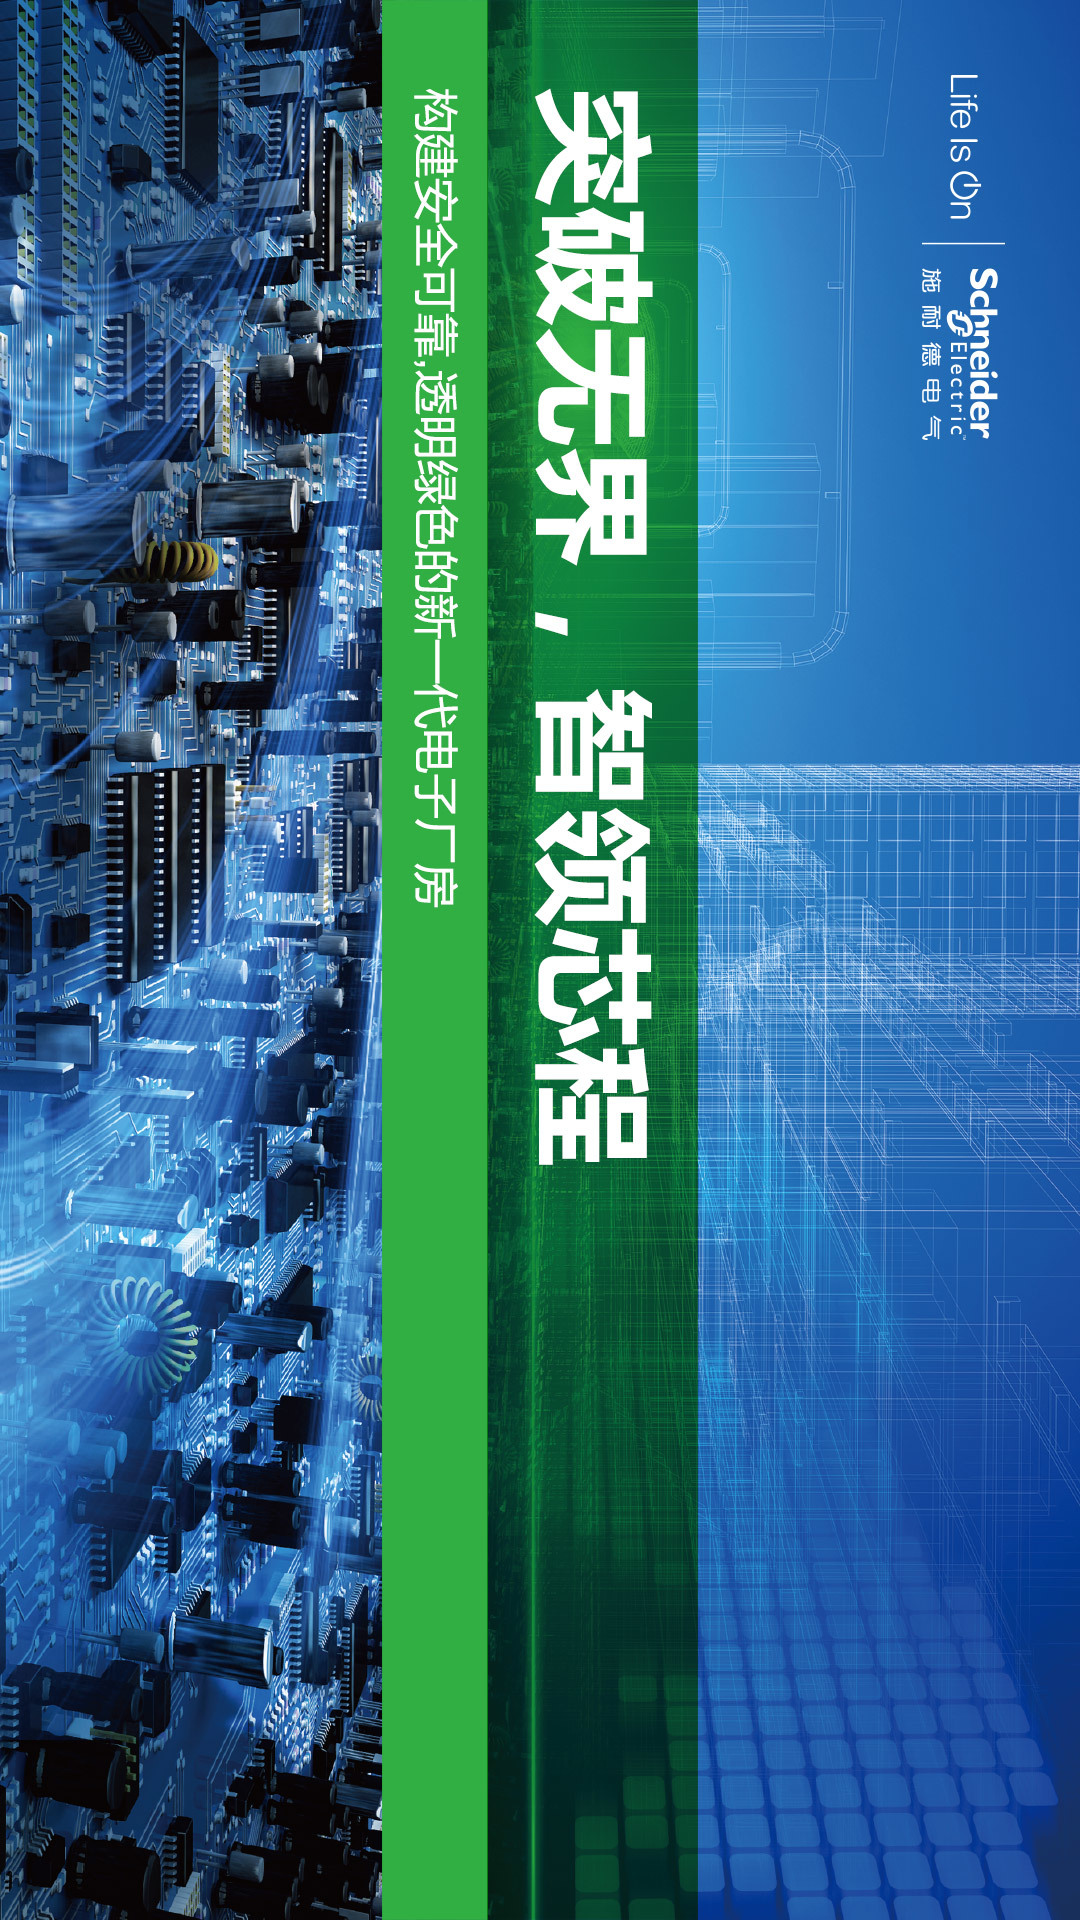
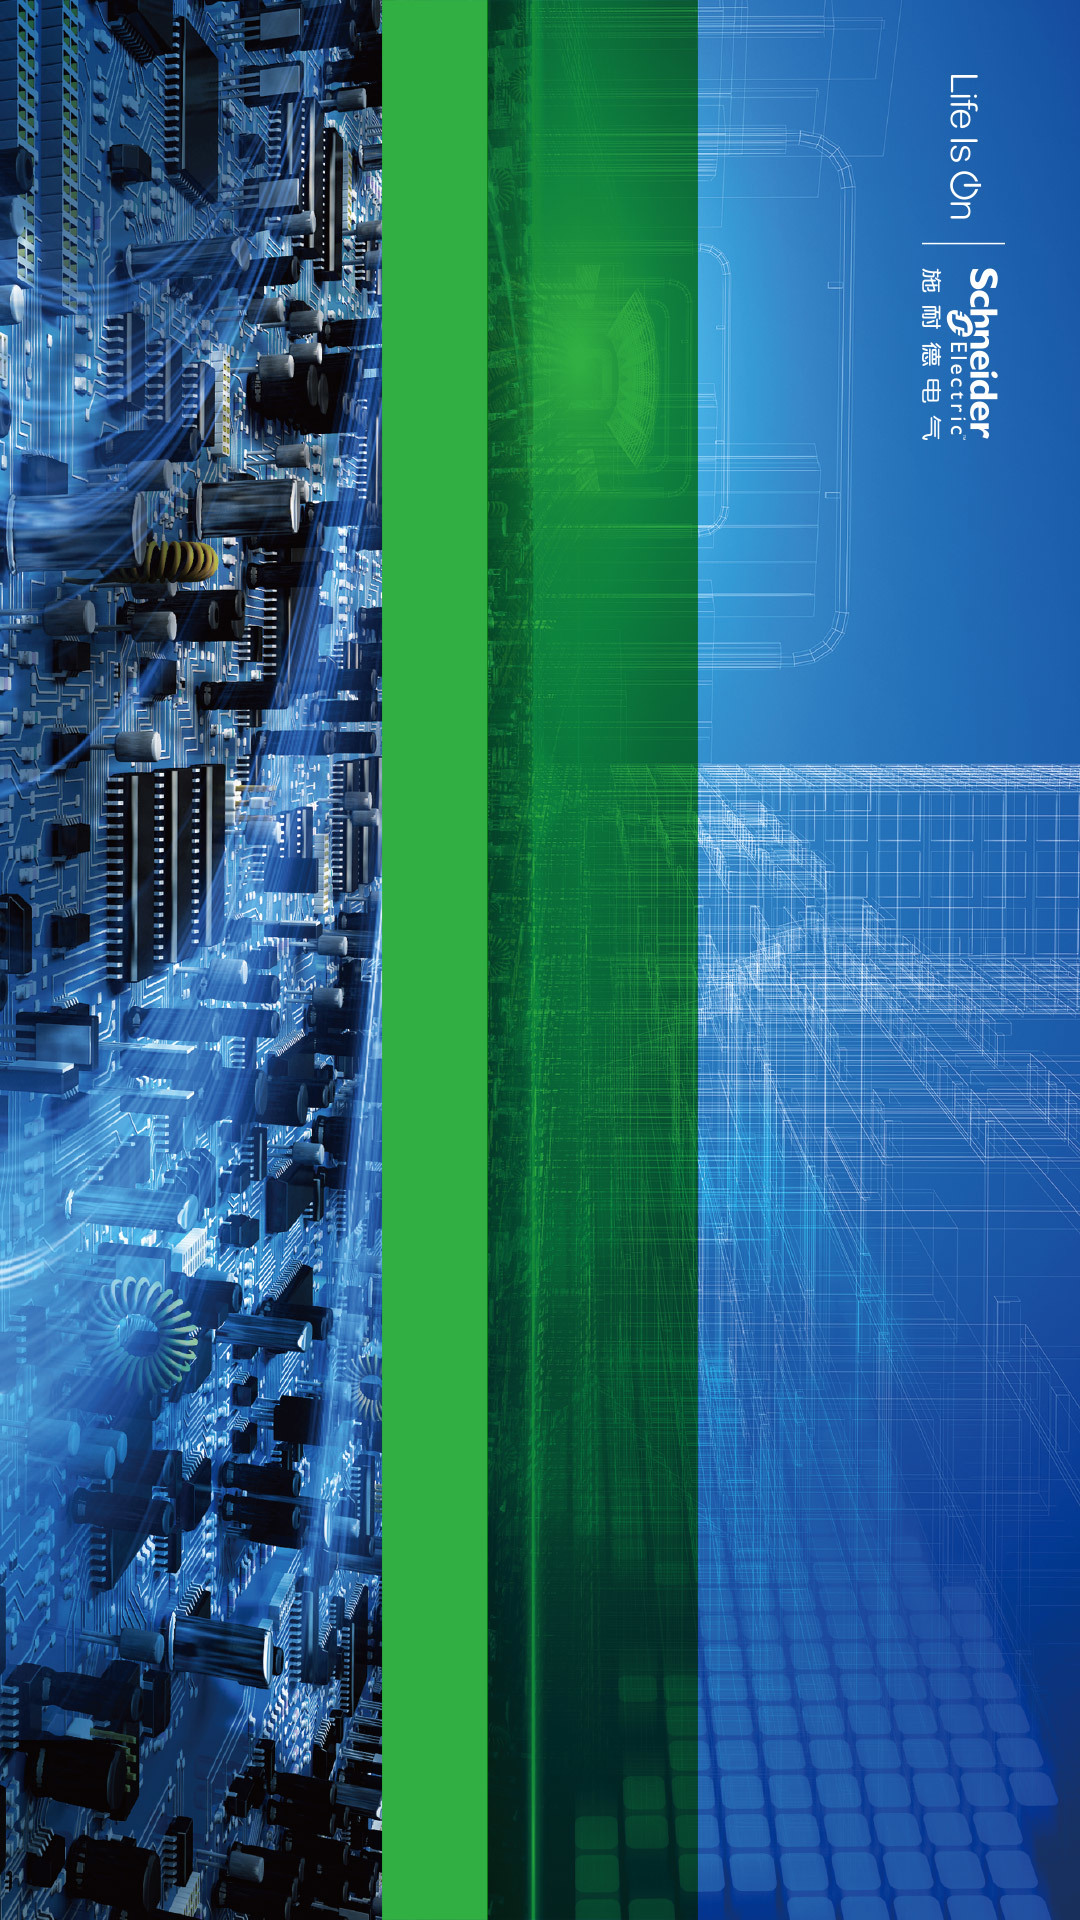
feat: new

Changed region(s): [[0.4889, 0.3125, 0.6111, 0.625], [0.4889, 0.0312, 0.6111, 0.3125], [0.3667, 0.0312, 0.4278, 0.4688]]

diff --git a/src/css/1.less b/src/css/1.less
@@ -1,6 +1,20 @@
+@import "./animate.less";
+.islider-active {
+  .page-1 {
+    .click {
+      animation-play-state: running;
+      animation-duration: 3s;
+    }
+    .text {
+    }
+  }
+}
+
 .page-1 {
-  background: url("../images/1/bg.jpg") center center no-repeat;
-  background-size: 100% 100%;
+  .bg {
+    background-image: url("../images/1/bg.jpg");
+  }
+
   .click {
     position: absolute;
     width: 200px;
@@ -9,6 +23,17 @@
     bottom: 50px;
     transform: translateX(-50%);
     background: url("../images/1/click.png") center center no-repeat;
+    background-size: contain;
+    animation-play-state: paused;
+  }
+  .text {
+    position: absolute;
+    left: 50%;
+    transform: translateX(-50%);
+    top: 0;
+    height: 60%;
+    width: 2rem;
+    background: url("../images/1/text.png") center center no-repeat;
     background-size: contain;
   }
 }

diff --git a/src/index.less b/src/index.less
@@ -1,3 +1,4 @@
+@import "./css/animate.less";
 html,
 body {
   margin: 0;
@@ -16,6 +17,15 @@ body {
   position: relative;
   height: 100%;
   width: 100%;
+}
+
+.bg {
+  background-size: contain;
+  background-repeat: no-repeat;
+  position: absolute;
+  height: 100%;
+  width: 100%;
+  z-index: 0;
 }
 
 // 当前页样式
@@ -37,7 +47,7 @@ body {
   background: url("./images/back.png") center center no-repeat;
   background-size: contain;
   z-index: 9999;
-  transform:translateZ(0px);
+  transform: translateZ(0px);
 }
 
 @import "./css/1.less";
